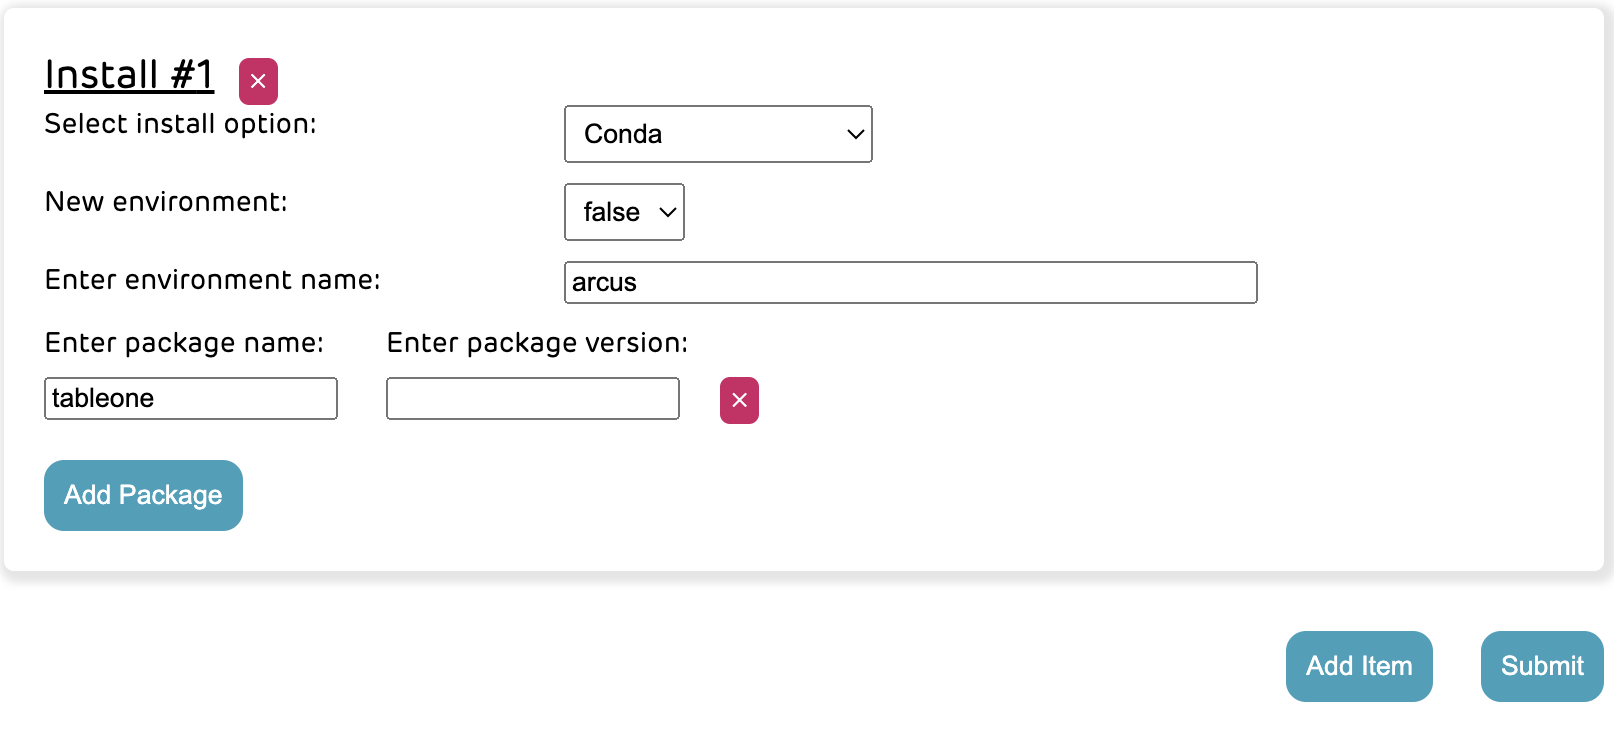
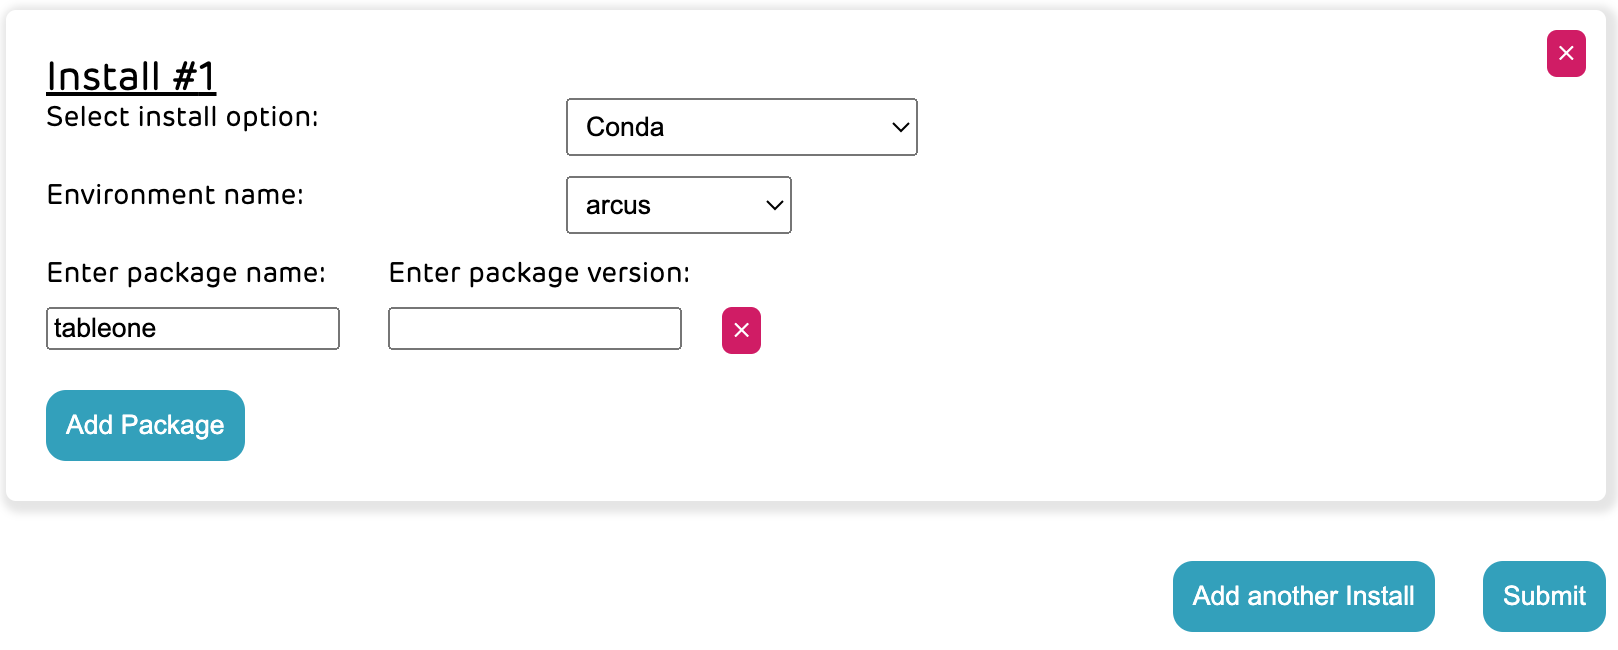
Update screenshots with finalized install tool

diff --git a/arcus_orientation.md b/arcus_orientation.md
@@ -754,8 +754,7 @@ Then you can open the Install form to install the package(s) you need that way.
 ##### Install with Conda
 
 When you install a package hosted on Anaconda, you need to specify whether you want to install it into a Conda environment you already have, or a new Conda environment. 
-If you want to install it into an existing Conda environment, you'll need to **make a note of your Conda environment** before going to the Install form.
-
+If you want to install it into the Conda environment you're already using for a given analysis, you'll need to **make a note of your Conda environment** before going to the Install form.
 
 You can see the Conda environment (prefixed with `.conda-`) for a given Jupyter notebook in the upper right corner of the screen when you have that notebook open. The default [Arcus-provided Conda environment](https://forum.arcus.chop.edu/t/arcus-provided-conda-environments/573) is called `arcus`. 
 
@@ -768,23 +767,18 @@ Select "Conda".
 
 ![The Arcus Install tool, with "Conda" selected from the install option drop down menu.](media/install_conda_packages.png)
 
-**If you wish to install the package into an existing Conda environment, change "New environment" to "false".** 
-Otherwise it will attempt to create a new Conda environment for you when you install.
+Select the name of the Conda environment you wish to install into from the dropdown, or select "Create new..." to create a new environment. If you are creating a new environment, then write in the name that you want the environment saved as; this will be saved as a new directory under `~/.conda/env`.
 
-![The Arcus Install tool, with install option "Conda" and new environment changed from "true" to "false".](media/install_conda_new_env.png)
+![The Arcus Install tool, with install option "Conda" and environment name changed from "Create new..." to "arcus".](media/install_conda_env.png)
 
-Write in the name of the Conda environment you wish to install into. If you are creating a new environment, then write in a string here that you want the environment saved as; this will be saved as a new directory under `~/.conda/env`.
-
-<div class = "warning">
-<b style="color: rgb(var(--color-highlight));">Warning</b><br>
+<div class = "help">
+<b style="color: rgb(var(--color-highlight));">Troubleshooting help</b><br>
 
 When creating a new Conda environment, the string you provide here must not already be a subdirectory under `~/.conda/env`.
 
 If you want to overwrite an existing Conda environment, you'll need to manually delete it first.
 
 </div>
-
-![The Arcus Install tool, with install option "Conda", new environment set to "false", and "arcus" entered as the environment name.](media/install_conda_env_name.png)
 
 Write in the name of the package you want to install. 
 If you leave package version blank, it will get the most recent version.
